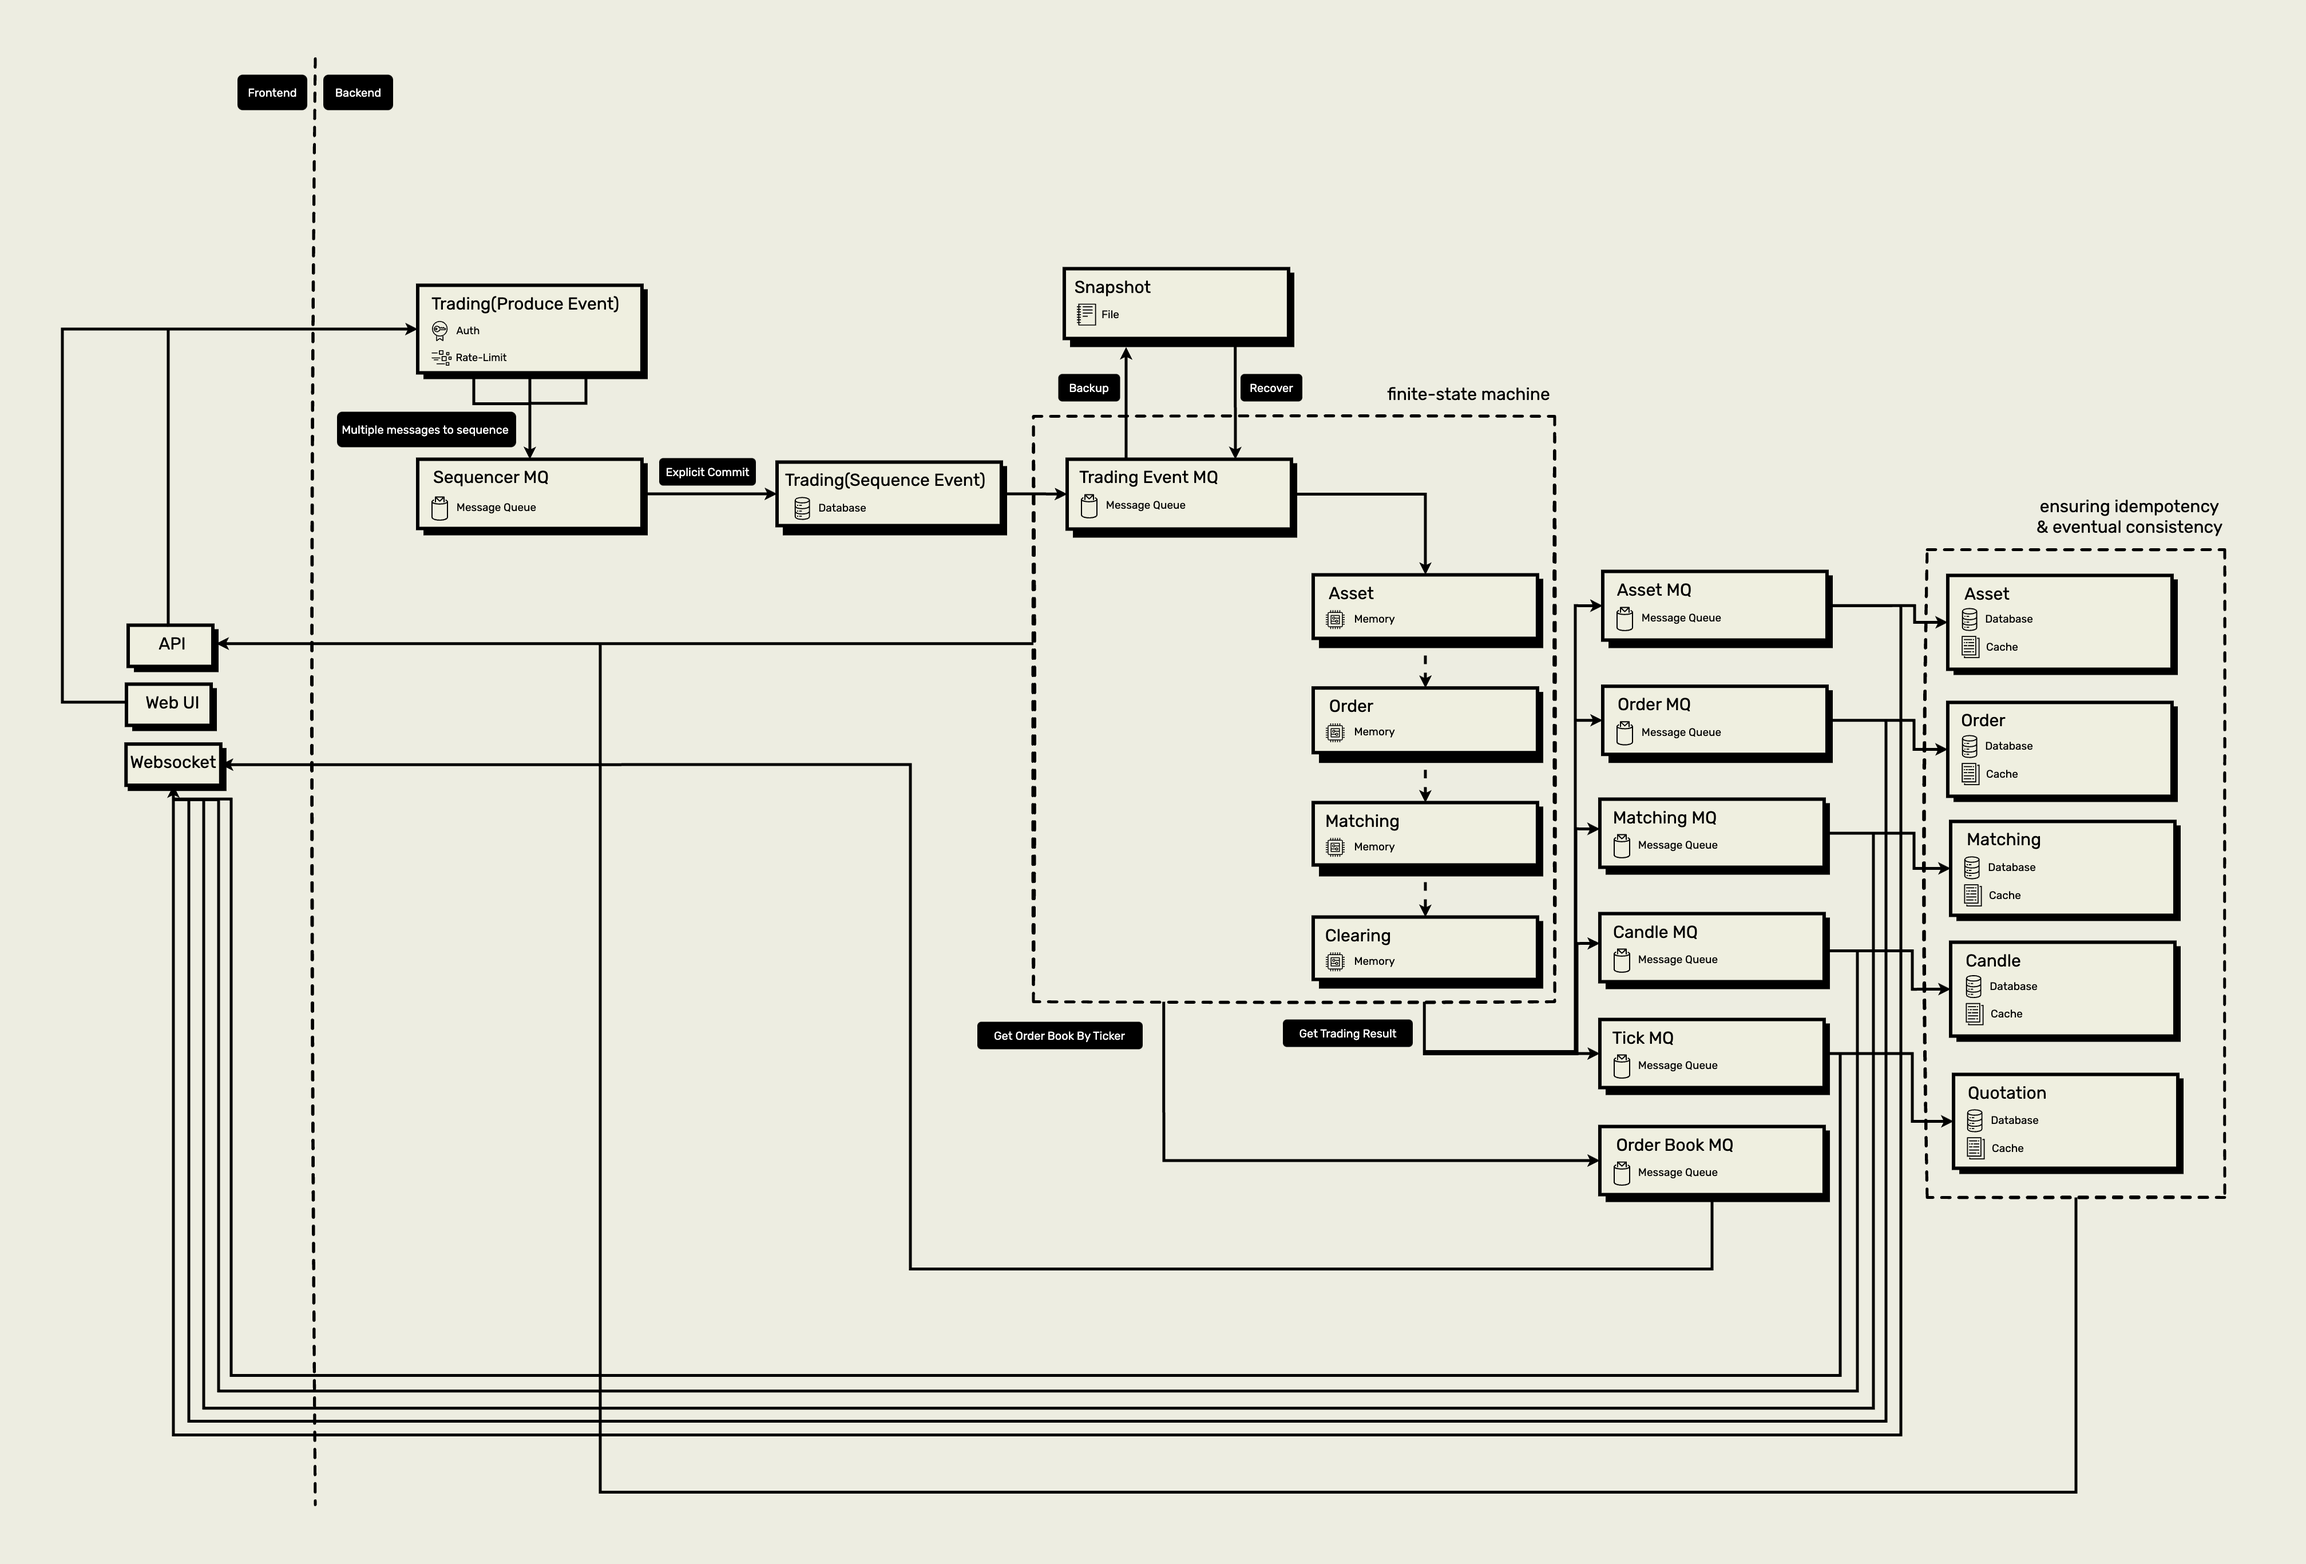
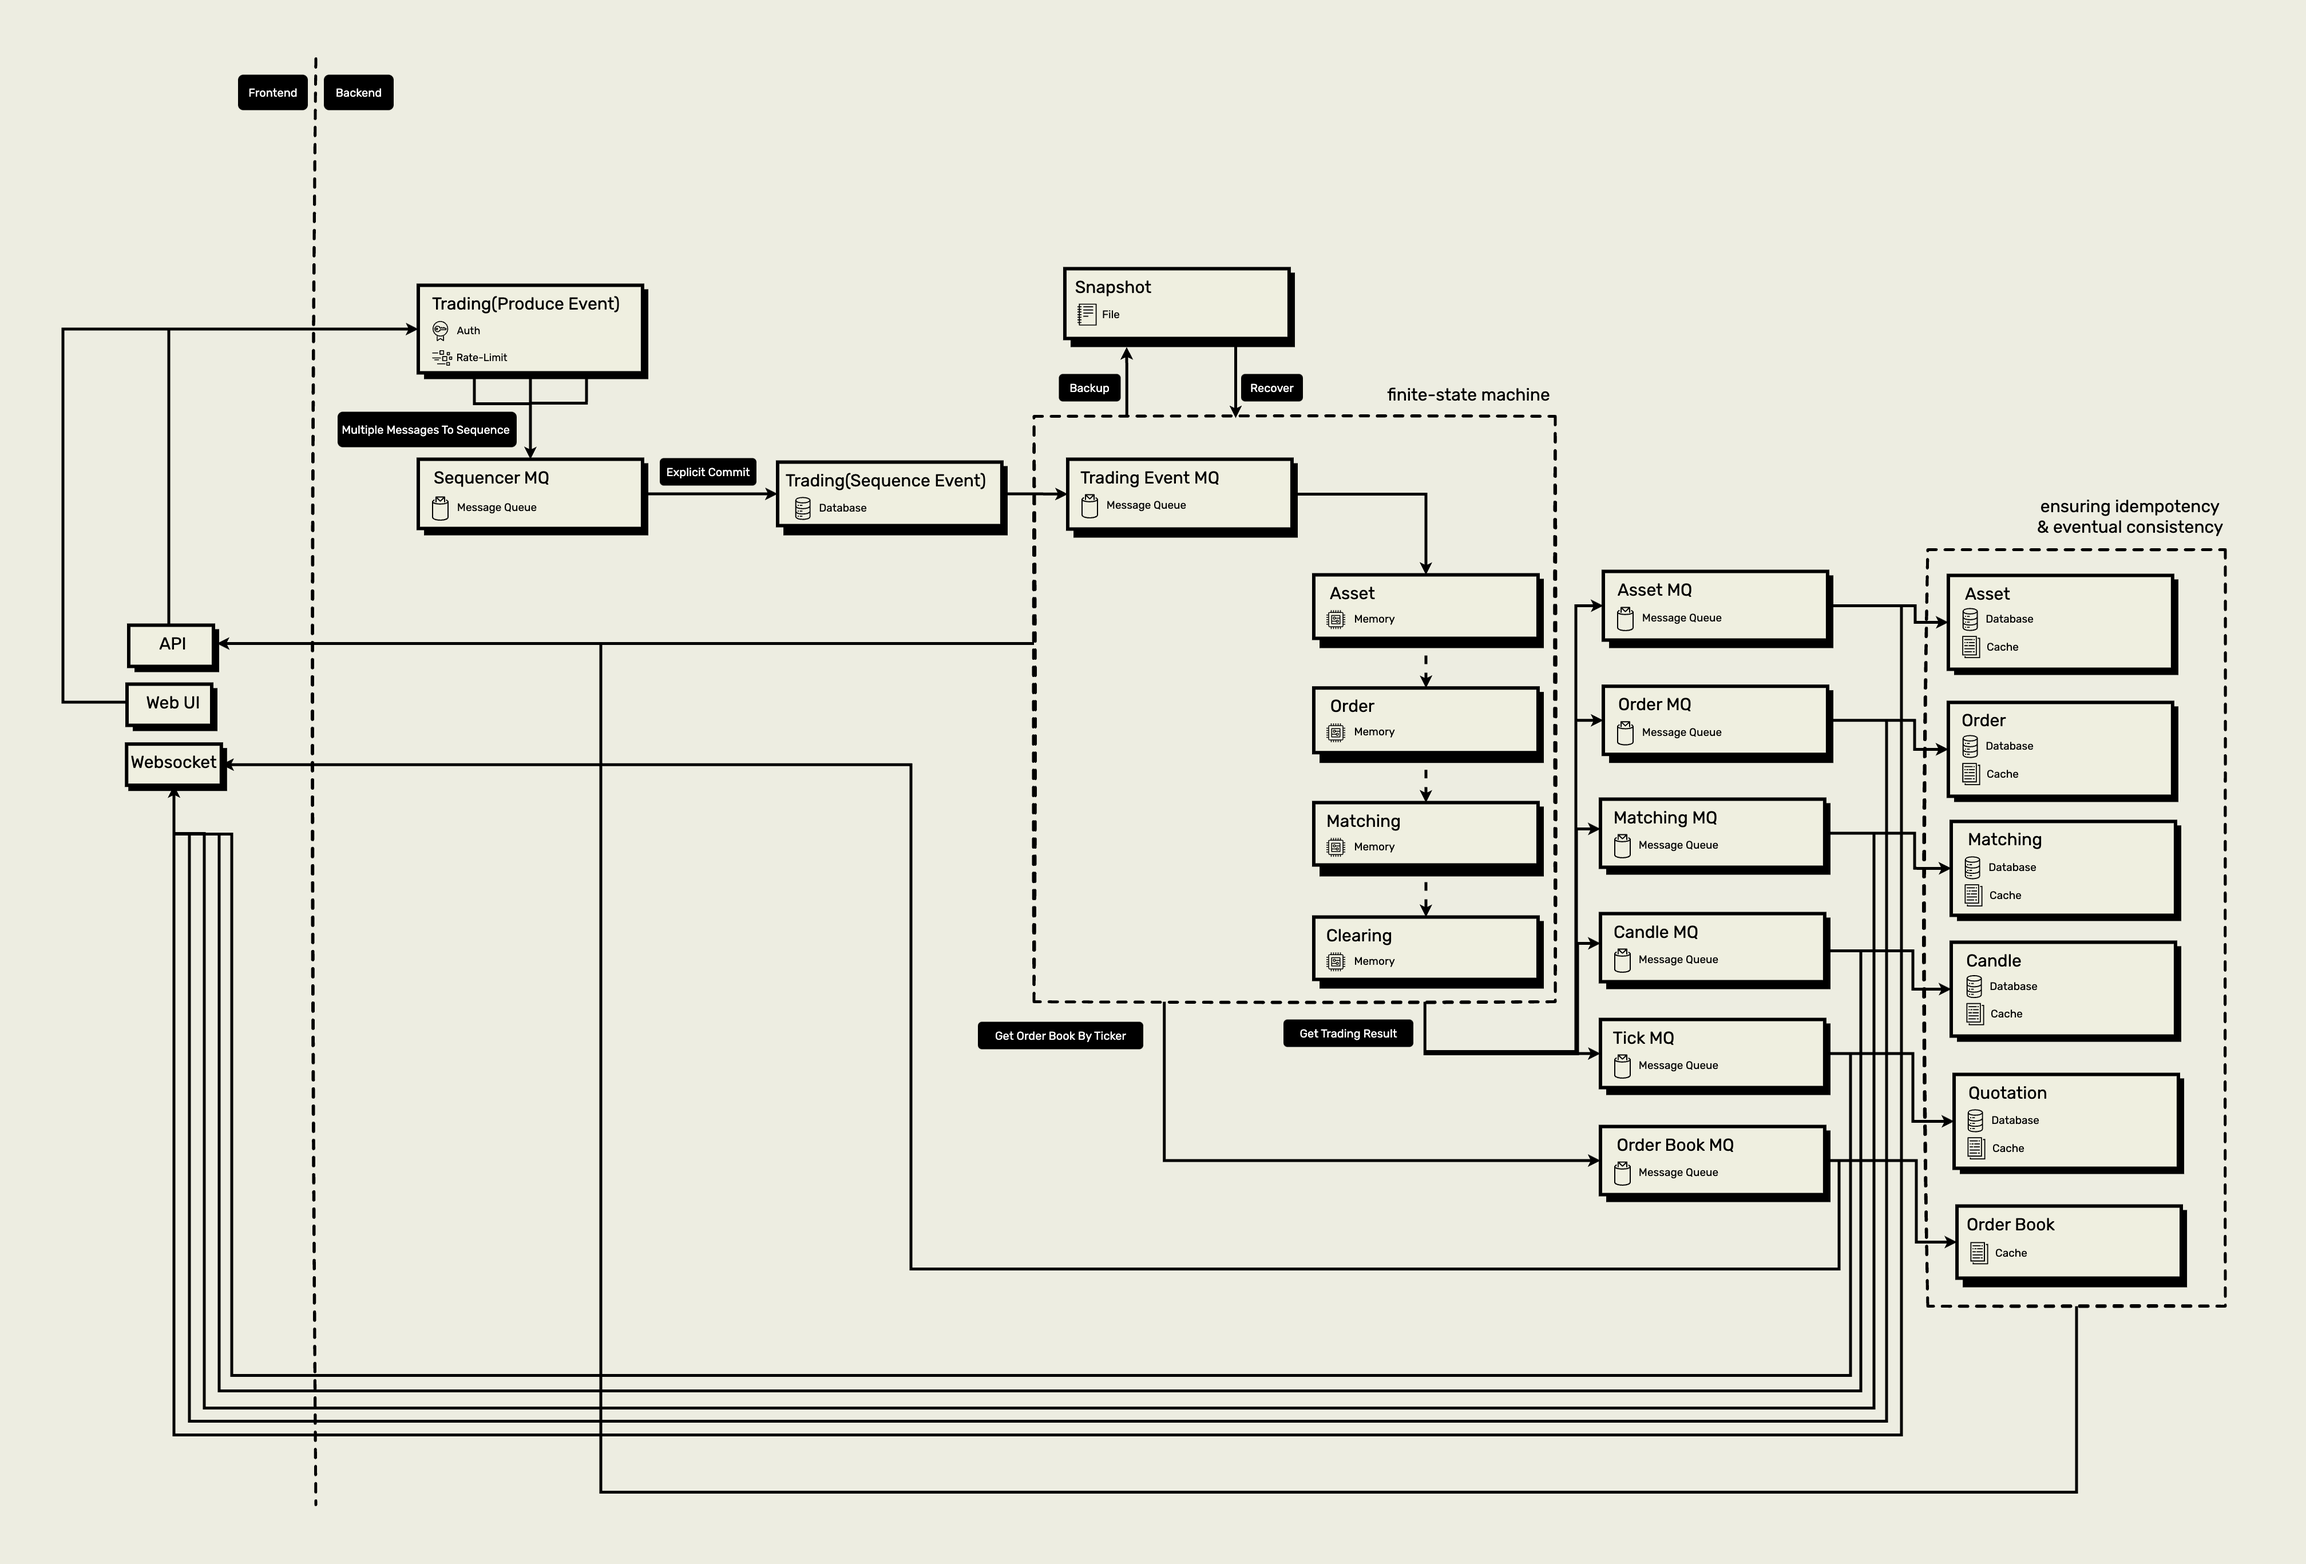
update

diff --git a/README.md b/README.md
@@ -161,11 +161,23 @@
 
 ### 系統架構
 
-![](https://github.com/superj80820/system-design/raw/master/exchange-arch.png)
+![](./exchange-arch.png)
 
 撮合系統主要由Sequence(定序模組)、Asset(資產模組)、Order(訂單模組)、Matching(撮合模組)、Clearing(清算模組)組成。
 
-由於需要快速計算撮合內容，計算都會直接在memory完成，過程中不會persistent data，但如果撮合系統崩潰，memory資料都會遺失，所以定序模組需將訂單event都儲存好，再進入撮合系統，如此一來，如果系統崩潰也可以靠已儲存的event來recover撮合系統。
+以訂單事件來舉例:
+
+1. 大量併發的訂單請求進入服務
+2. 定序模組會將訂單以有序的方式儲存
+3. 資產模組凍結訂單所需資產
+4. 訂單模組產生訂單
+5. 撮合模組獲取訂單進行撮合，更新order book後產生match result
+6. 清算模組依照match result來transfer、unfreeze資產
+7. 各模組產生的result組成trading result，produce給下游服務，下游服務透過這些資料cache與persistent data來達到eventual consistency
+
+由於需要快速計算撮合內容，計算都會直接在memory完成，過程中不會persistent data，但如果撮合系統崩潰，memory資料都會遺失，所以才需定序模組將訂單event都儲存好，再進入撮合系統，如此一來，如果系統崩潰也可以靠已儲存的event來recover撮合系統。
+
+下游服務都須考慮idempotency 冪等性，可透過sequence id來判斷event是否重複或超前，如果重複就拋棄，超前就必須讀取先前的event。
 
 ### Sequence 定序模組
 
